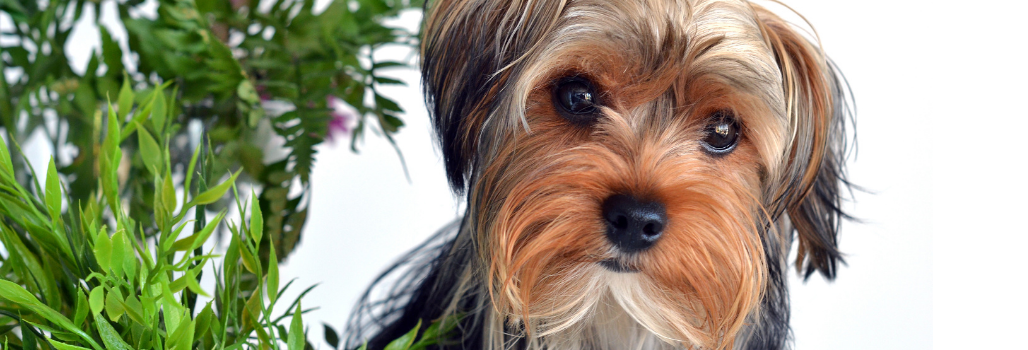
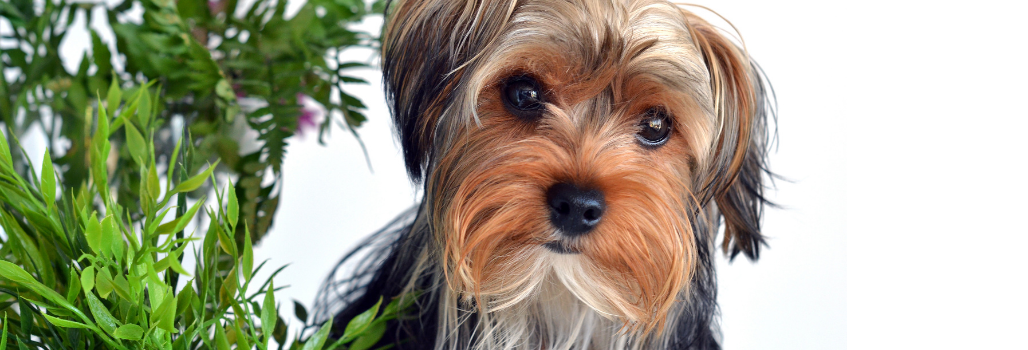
added carousel images and styling

diff --git a/index.html b/index.html
@@ -21,13 +21,13 @@
             <div id="carouselExampleSlidesOnly" class="carousel slide" data-ride="carousel">
                 <div class="carousel-inner">
                     <div class="carousel-item active">
-                    <img class="d-block w-100" src="https://via.placeholder.com/1028x350" alt="First slide">
+                    <img class="d-block w-100" src="images/caraPhoto1.png" alt="First slide">
                     </div>
                     <div class="carousel-item">
-                    <img class="d-block w-100" src="https://via.placeholder.com/1028x350" alt="Second slide">
+                    <img class="d-block w-100" src="images/caraPhoto2.png" alt="Second slide">
                     </div>
                     <div class="carousel-item">
-                    <img class="d-block w-100" src="https://via.placeholder.com/1028x350" alt="Third slide">
+                    <img class="d-block w-100" src="images/caraPhoto3.png" alt="Third slide">
                     </div>
             </div>
             </div>
